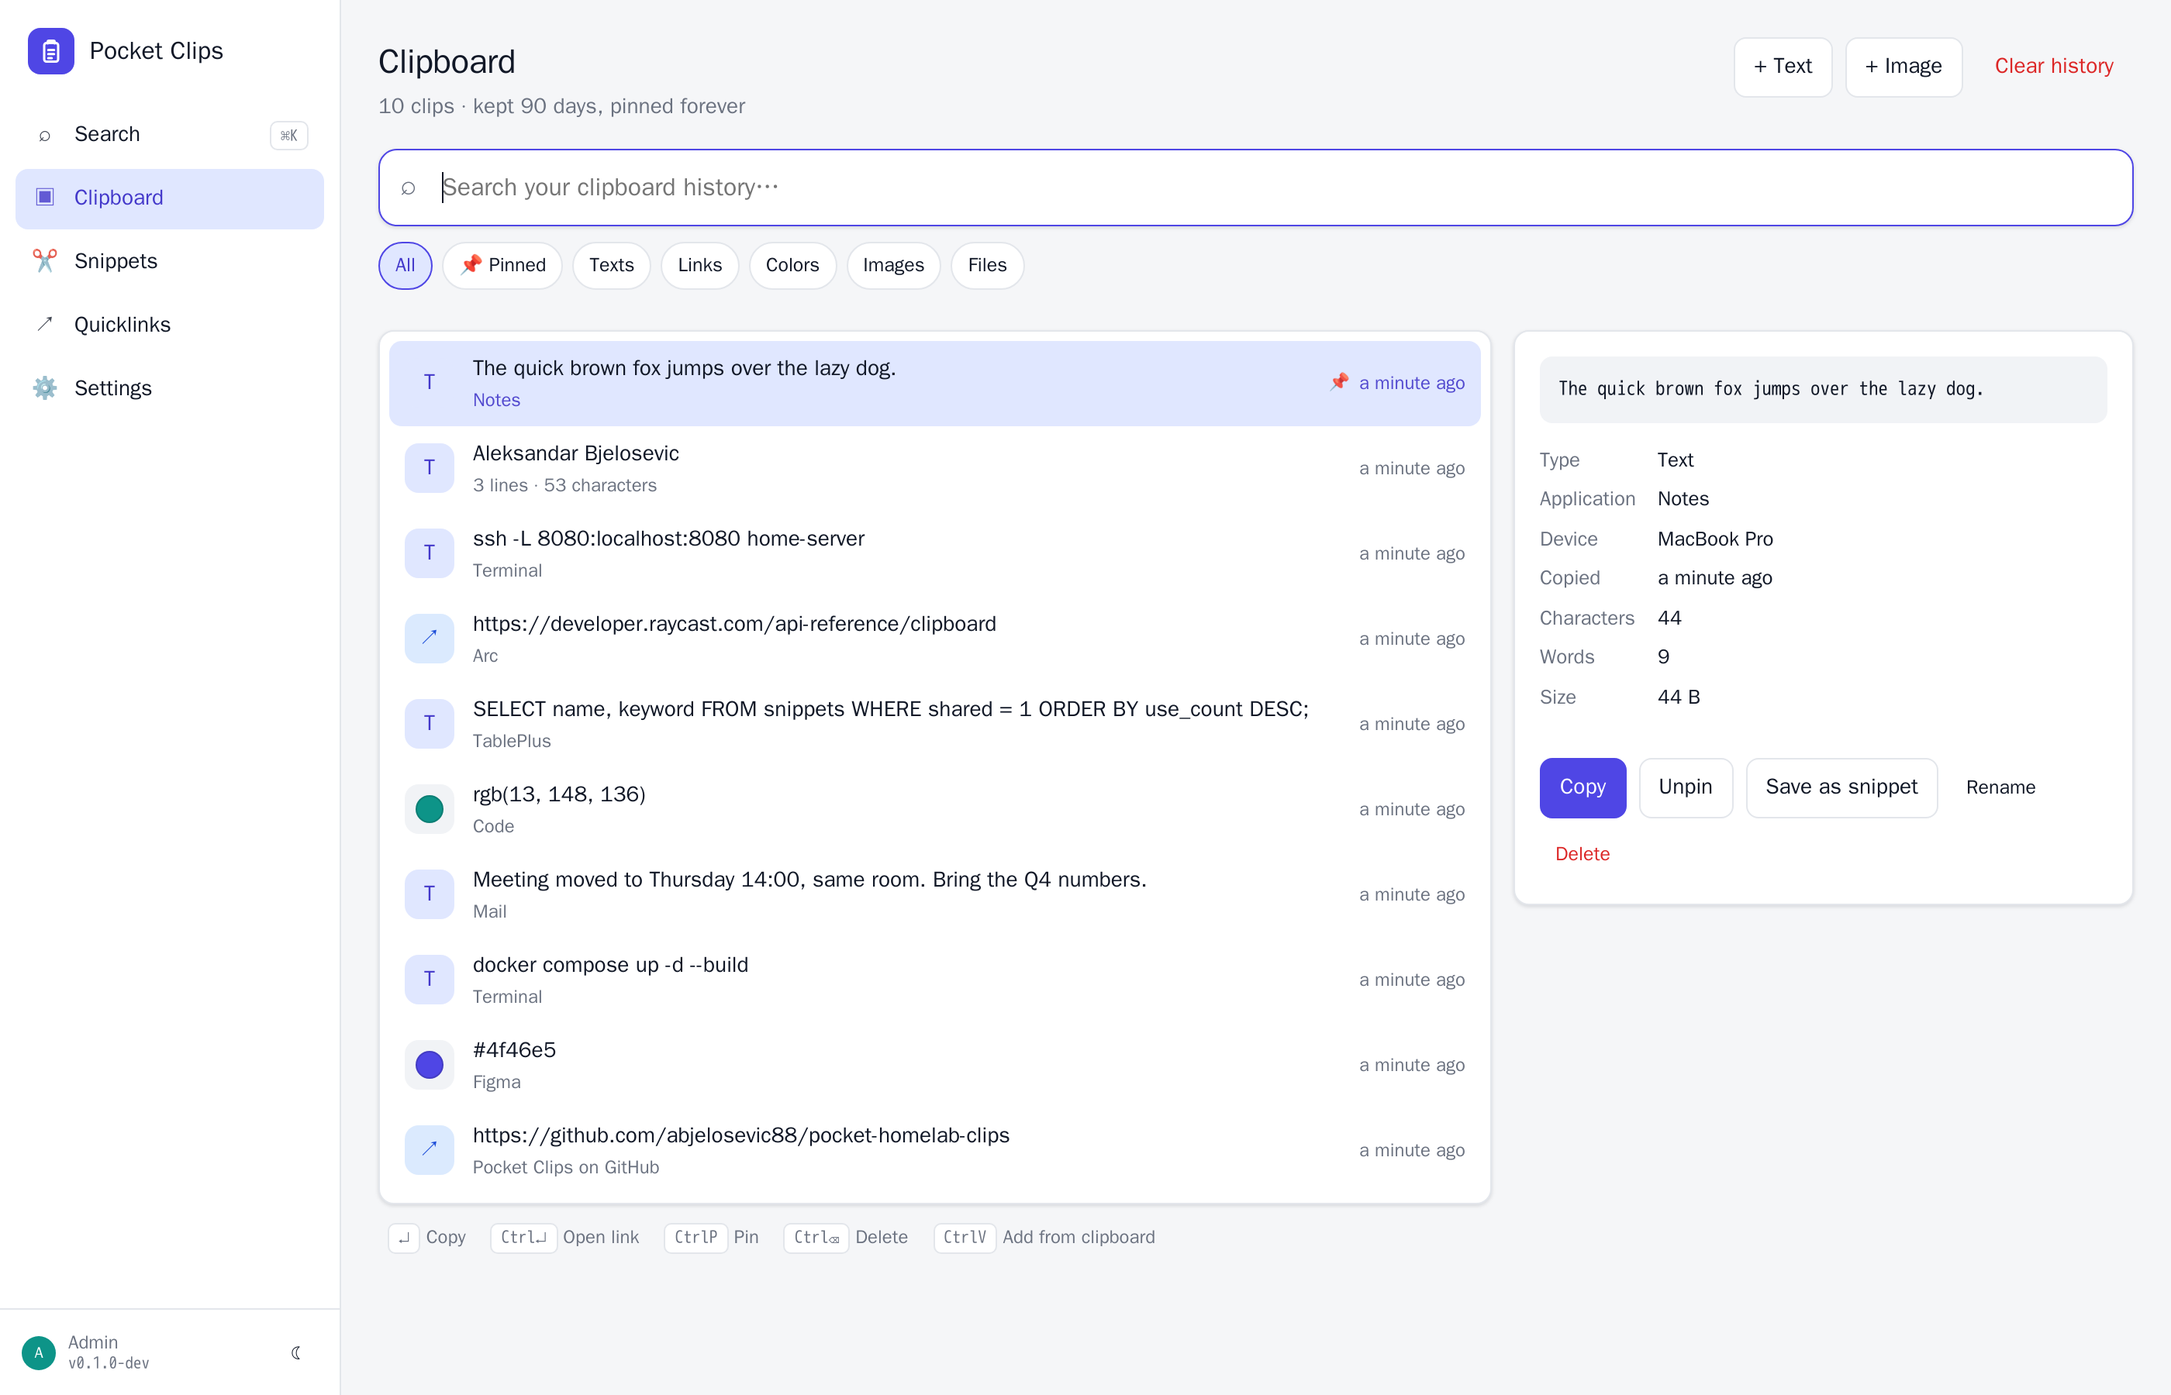
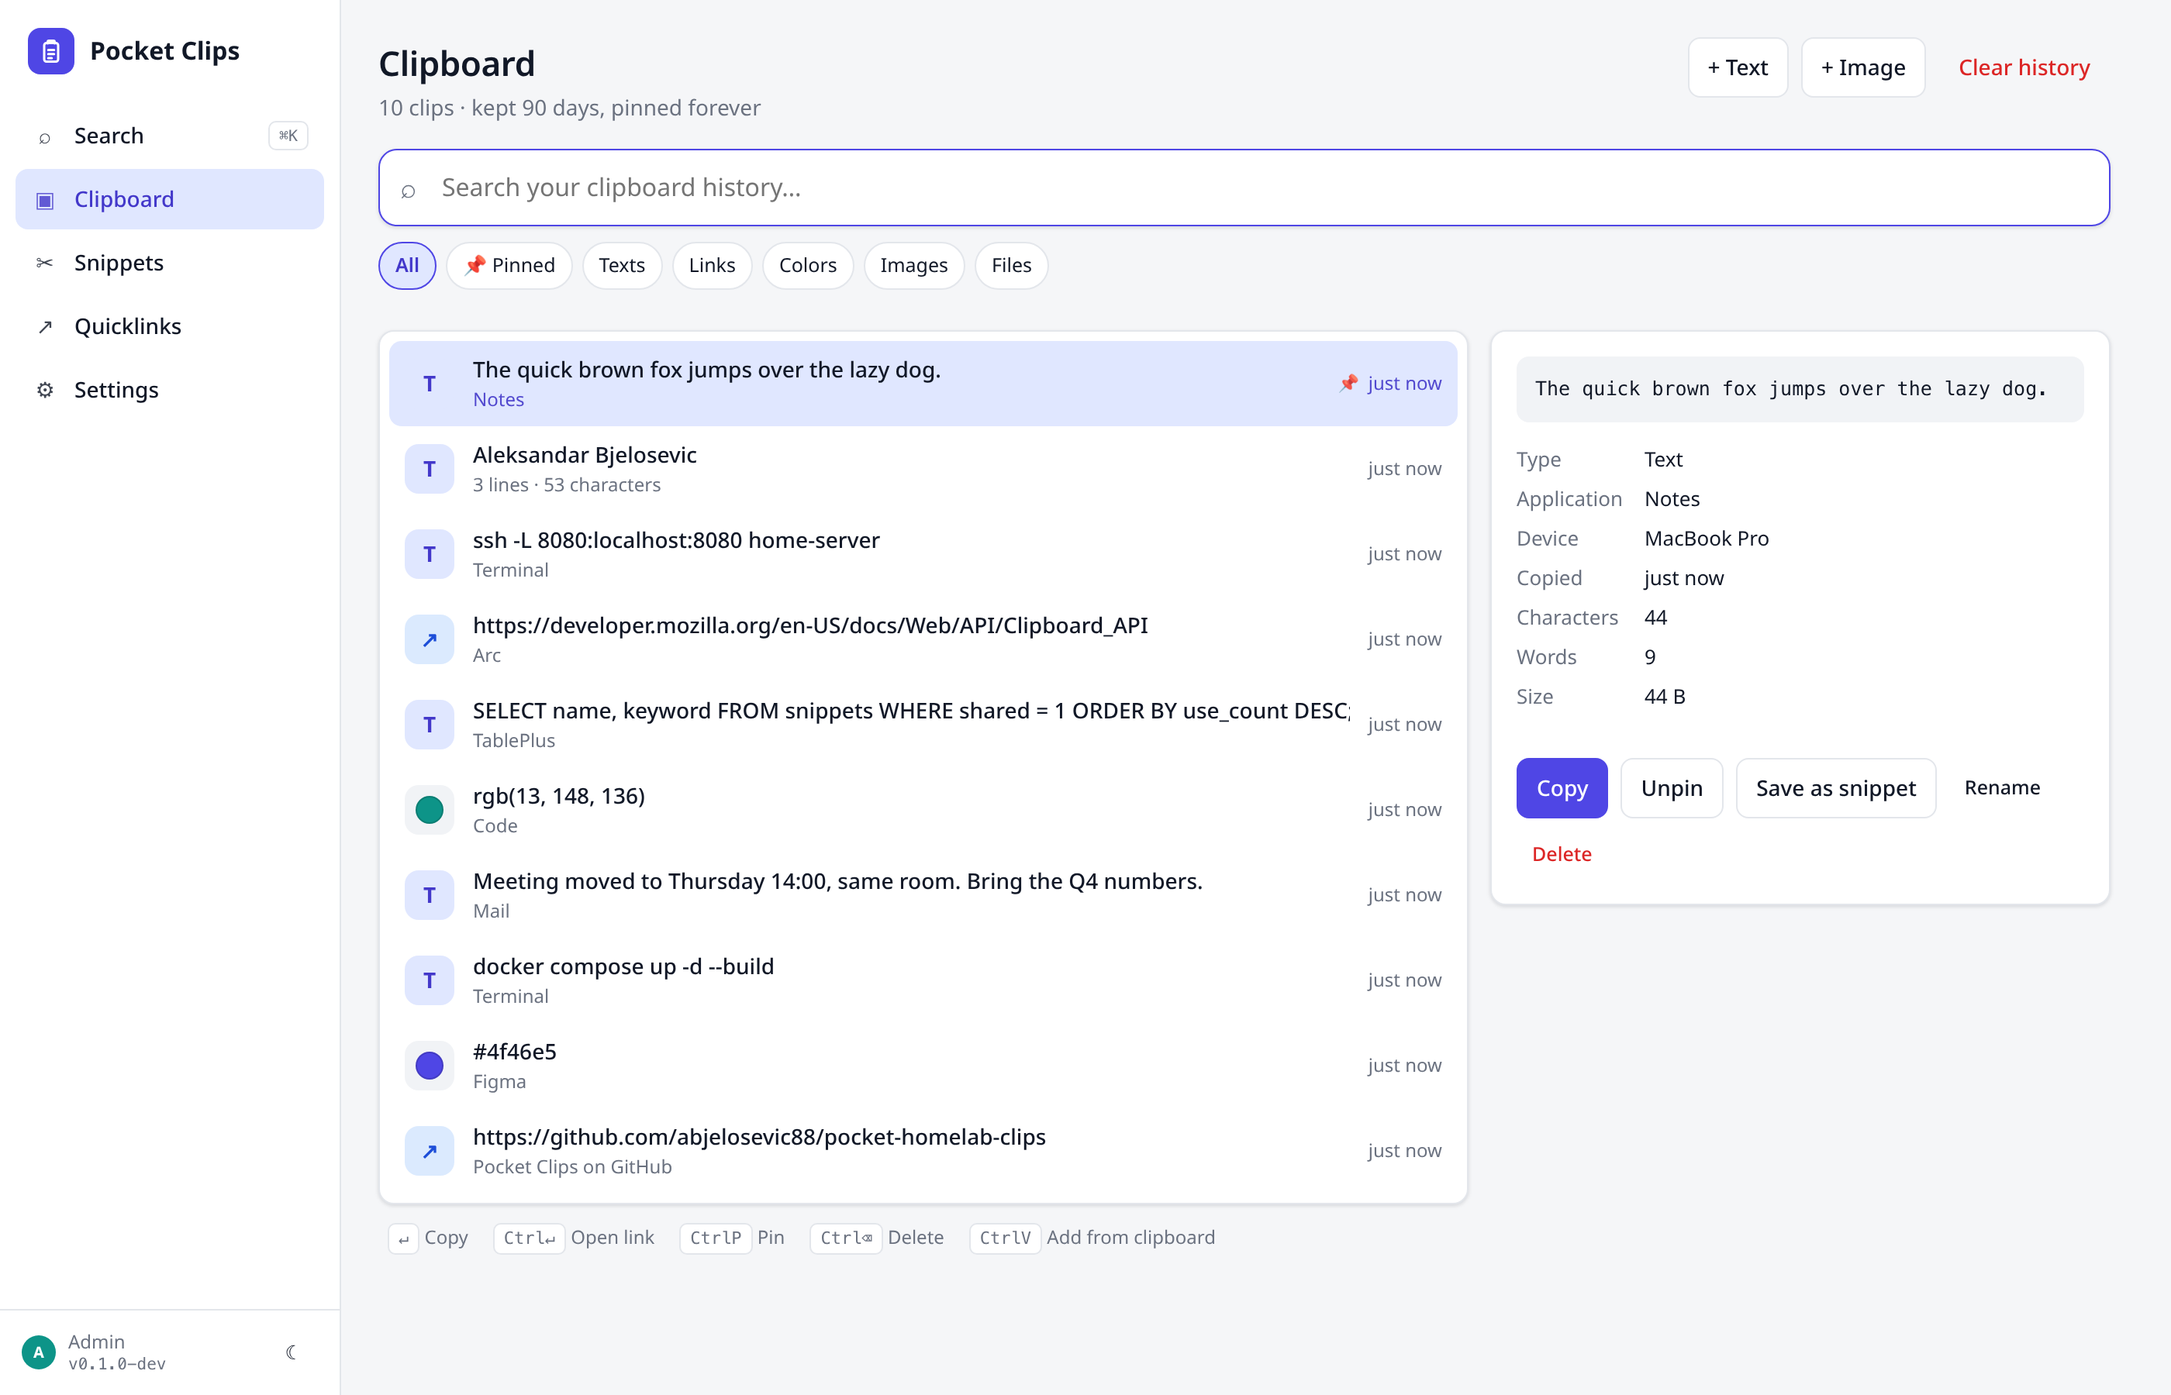
Stand-alone wording: no third-party app named in docs, UI, comments or demo data; bare-array export is now ?bare=1, the on-demand client script is replaced by a post-clip.sh hotkey tip, clipboard screenshot retaken

diff --git a/web/src/pages/Settings.tsx b/web/src/pages/Settings.tsx
@@ -103,13 +103,12 @@ curl -fsS "${base}/api/v1/snippets/expand?keyword=sig&arg.name=Ana" \\
 # JSON with cursor offset and missing arguments
 curl -fsS -X POST ${base}/api/v1/snippets/expand -H "Authorization: Bearer pc_…" \\
   -H "Content-Type: application/json" -d '{"keyword":"mtg","args":{"attendees":"Ana"}}'`}</pre>
-          <p className="muted small">Raycast users: Snippets → Export in Raycast produces JSON this app imports as is, and <b>Export</b> here produces the array Raycast's importer accepts.</p>
         </Card>
         <Card title="Quicklinks as a browser search engine">
           <p className="muted">Any quicklink with a <code>{'{Query}'}</code> gets a redirect URL. Add it in your browser's search-engine settings with <code>%s</code> as the query, give it the same keyword, and type <code>g pocket clips</code> in the address bar:</p>
           <pre>{`${base}/go/g?q=%s        # by keyword
 ${base}/go/12?q=%s       # by id`}</pre>
-          <p className="muted small">Works while you are signed in here (session cookie){status?.auth_mode === 'none' ? ' — or always, since login is off' : ''}. Raycast's Quicklinks → Export JSON imports directly too.</p>
+          <p className="muted small">Works while you are signed in here (session cookie){status?.auth_mode === 'none' ? ' — or always, since login is off' : ''}.</p>
         </Card>
       </div>
     </div>
@@ -237,7 +236,7 @@ function Data() {
         <a className="btn primary" href={`${V1}/backup`}>Download database</a>
       </Card>
       <Card title="Export & import">
-        <p className="muted">Your snippets and quicklinks as one JSON file (add your text clips with the second button). The same file, or a bare array exported by Raycast, imports here; items you already have are skipped.</p>
+        <p className="muted">Your snippets and quicklinks as one JSON file (add your text clips with the second button). The same file, or a bare array of snippets or quicklinks, imports here; items you already have are skipped.</p>
         <div className="row wrap">
           <a className="btn" href={`${V1}/export`}>Export library</a>
           <a className="btn" href={`${V1}/export?clips=1`}>Export library + clips</a>
@@ -253,7 +252,7 @@ function About() {
   const counts = (data?.counts || {}) as Record<string, number>
   return (
     <Card title="About">
-      <p><b>Pocket Clips</b> is the server side of a Raycast-style clipboard history, snippet library and quicklink launcher: everything you copy, searchable from any device, with snippets that expand placeholders and quicklinks that take a query. One binary, one SQLite file, one volume.</p>
+      <p><b>Pocket Clips</b> is a self-hosted clipboard history, snippet library and quicklink launcher: everything you copy, searchable from any device, with snippets that expand placeholders and quicklinks that take a query. One binary, one SQLite file, one volume.</p>
       <p className="muted small">Open source (MIT) — <a href="https://github.com/abjelosevic88/pocket-homelab-clips" target="_blank" rel="noreferrer">github.com/abjelosevic88/pocket-homelab-clips</a>. Sibling projects: Pocket Habits, Pocket Inventory, Pocket Bookshelf, Pocket Split, Pocket Subtitles and Pocket Invoicing. Favicons by DuckDuckGo.</p>
       {data && (
         <table className="table compact mt">

diff --git a/web/src/pages/Quicklinks.tsx b/web/src/pages/Quicklinks.tsx
@@ -87,7 +87,7 @@ export default function Quicklinks() {
       <PageHeader title="Quicklinks" sub={`${plural(total, 'quicklink')} · use {Query} or {argument name="x"} in the URL to be asked for input`} actions={<>
         <button className="btn" onClick={() => fileInput.current?.click()}>Import JSON</button>
         <input ref={fileInput} type="file" accept="application/json,.json" hidden onChange={e => e.target.files?.[0] && importFile(e.target.files[0])} />
-        <a className="btn" href={`${V1}/export?what=quicklinks&raycast=1`}>Export</a>
+        <a className="btn" href={`${V1}/export?what=quicklinks&bare=1`}>Export</a>
         <button className="btn primary" onClick={() => setEdit({})}>+ New quicklink</button>
       </>} />
       <div className="palette page">
@@ -99,7 +99,7 @@ export default function Quicklinks() {
         {folders.length > 0 && <div className="chips mb"><button className={`chip ${!folder ? 'active' : ''}`} onClick={() => set('folder', '')}>All</button>{folders.map(f => <button key={f} className={`chip ${folder === f ? 'active' : ''}`} onClick={() => set('folder', f)}>{f}</button>)}</div>}
         <div className={`pal-body ${cur ? 'has-detail' : ''}`}>
           <div className="pal-list" ref={list} role="listbox">
-            {items.length === 0 && <div className="empty"><h3>{q ? 'No matches' : 'No quicklinks yet'}</h3><p className="muted">{q ? '' : 'Create one, or import the JSON that Raycast exports (Quicklinks → Export).'}</p></div>}
+            {items.length === 0 && <div className="empty"><h3>{q ? 'No matches' : 'No quicklinks yet'}</h3><p className="muted">{q ? '' : 'Create one, or import a JSON array of quicklinks.'}</p></div>}
             {items.map((x, i) => <div key={x.id} data-i={i}><QuicklinkRow q={x} hl={i === hl} onClick={() => { setHl(i); if (narrow) setSheet(true) }} onDoubleClick={() => open(x)} /></div>)}
           </div>
           {!narrow && cur && <aside className="detail">{detail}</aside>}

diff --git a/web/src/pages/Snippets.tsx b/web/src/pages/Snippets.tsx
@@ -86,7 +86,7 @@ export default function Snippets() {
       <PageHeader title="Snippets" sub={`${plural(total, 'snippet')} · placeholders like {clipboard}, {date} and {argument name="x"} are filled in when you copy`} actions={<>
         <button className="btn" onClick={() => fileInput.current?.click()}>Import JSON</button>
         <input ref={fileInput} type="file" accept="application/json,.json" hidden onChange={e => e.target.files?.[0] && importFile(e.target.files[0])} />
-        <a className="btn" href={`${V1}/export?what=snippets&raycast=1`}>Export</a>
+        <a className="btn" href={`${V1}/export?what=snippets&bare=1`}>Export</a>
         <button className="btn primary" onClick={() => setEdit({})}>+ New snippet</button>
       </>} />
       <div className="palette page">
@@ -98,7 +98,7 @@ export default function Snippets() {
         {folders.length > 0 && <div className="chips mb"><button className={`chip ${!folder ? 'active' : ''}`} onClick={() => set('folder', '')}>All</button>{folders.map(f => <button key={f} className={`chip ${folder === f ? 'active' : ''}`} onClick={() => set('folder', f)}>{f}</button>)}</div>}
         <div className={`pal-body ${cur ? 'has-detail' : ''}`}>
           <div className="pal-list" ref={list} role="listbox">
-            {items.length === 0 && <div className="empty"><h3>{q ? 'No matches' : 'No snippets yet'}</h3><p className="muted">{q ? '' : 'Create one, or import the JSON that Raycast exports (Snippets → Export).'}</p></div>}
+            {items.length === 0 && <div className="empty"><h3>{q ? 'No matches' : 'No snippets yet'}</h3><p className="muted">{q ? '' : 'Create one, or import a JSON array of snippets.'}</p></div>}
             {items.map((s, i) => <div key={s.id} data-i={i}><SnippetRow s={s} hl={i === hl} onClick={() => { setHl(i); if (narrow) setSheet(true) }} onDoubleClick={() => use(s)} /></div>)}
           </div>
           {!narrow && cur && <aside className="detail">{detail}</aside>}

diff --git a/web/src/components/items.tsx b/web/src/components/items.tsx
@@ -76,7 +76,7 @@ export function QuicklinkRow({ q, hl, active, onClick, onDoubleClick }: { q: Qui
   )
 }
 
-/** Raycast-style metadata list in the detail pane. */
+/** Metadata list in the detail pane. */
 export function Meta({ rows }: { rows: [string, React.ReactNode][] }) {
   return <dl className="meta">{rows.filter(r => r[1] !== '' && r[1] !== null && r[1] !== undefined && r[1] !== 0).map(([k, v]) => <div key={k}><dt>{k}</dt><dd>{v}</dd></div>)}</dl>
 }
@@ -174,7 +174,7 @@ export function ArgsModal({ title, args, onSubmit, onClose }: { title: string; a
   )
 }
 
-/** The footer bar with keyboard hints, like Raycast's action bar. */
+/** The footer bar with keyboard hints. */
 export function Hints({ items }: { items: [string, string][] }) {
   return <div className="hints">{items.map(([k, l]) => <span key={l}><span className="kbd">{k.replace('⌘', mod)}</span> {l}</span>)}</div>
 }

diff --git a/web/src/components/PlaceholderEditor.tsx b/web/src/components/PlaceholderEditor.tsx
@@ -46,8 +46,8 @@ interface Props {
   inputRef?: React.RefObject<HTMLTextAreaElement | HTMLInputElement | null>
 }
 
-/** A textarea or input that pops up placeholder completions when you type "{",
- *  the way Raycast's snippet editor does. ↑↓ move, ↵ or Tab insert, Esc closes. */
+/** A textarea or input that pops up placeholder completions when you type "{".
+ *  ↑↓ move, ↵ or Tab insert, Esc closes. */
 export function PlaceholderEditor({ value, onChange, completions, snippetNames = [], multiline = true, className = '', placeholder, rows = 8, required, autoFocus, spellCheck = false, inputRef }: Props) {
   const own = useRef<HTMLTextAreaElement | HTMLInputElement | null>(null)
   const ref = (inputRef || own) as React.RefObject<HTMLTextAreaElement | HTMLInputElement | null>

diff --git a/internal/server/importexport.go b/internal/server/importexport.go
@@ -10,8 +10,8 @@ import (
 )
 
 // Export is the portable JSON shape of a user's library. Snippets and
-// quicklinks use Raycast's field names (name/text/keyword, name/link/openWith)
-// so the arrays can be fed straight into Raycast's importers, and vice versa.
+// quicklinks use the common launcher field names (name/text/keyword,
+// name/link/openWith) so the arrays can be fed into other tools, and vice versa.
 type Export struct {
 	App        string            `json:"app"`
 	Version    string            `json:"version"`
@@ -42,8 +42,8 @@ type exportQuicklink struct {
 }
 
 // handleExport: GET /export?what=snippets|quicklinks|all (default all, clips
-// included only with ?clips=1). ?raycast=1 returns the bare array Raycast's
-// "Import Snippets" / "Import Quicklinks" dialogs expect.
+// included only with ?clips=1). ?bare=1 returns just the snippets or
+// quicklinks array instead of the wrapped export.
 func (s *Server) handleExport(w http.ResponseWriter, r *http.Request) {
 	u := userFrom(r.Context())
 	what := r.URL.Query().Get("what")
@@ -77,18 +77,18 @@ func (s *Server) handleExport(w http.ResponseWriter, r *http.Request) {
 		ex.Clips = list
 	}
 	name := "pocket-clips-" + time.Now().Format("20060102") + ".json"
-	if queryBool(r, "raycast") {
+	if queryBool(r, "bare") {
 		switch what {
 		case "snippets":
-			name = "raycast-snippets.json"
+			name = "pocket-clips-snippets.json"
 			w.Header().Set("Content-Disposition", `attachment; filename="`+name+`"`)
 			writeJSON(w, http.StatusOK, ex.Snippets)
 		case "quicklinks":
-			name = "raycast-quicklinks.json"
+			name = "pocket-clips-quicklinks.json"
 			w.Header().Set("Content-Disposition", `attachment; filename="`+name+`"`)
 			writeJSON(w, http.StatusOK, ex.Quicklinks)
 		default:
-			writeErr(w, http.StatusBadRequest, "raycast=1 needs what=snippets or what=quicklinks")
+			writeErr(w, http.StatusBadRequest, "bare=1 needs what=snippets or what=quicklinks")
 		}
 		return
 	}
@@ -96,7 +96,7 @@ func (s *Server) handleExport(w http.ResponseWriter, r *http.Request) {
 	writeJSON(w, http.StatusOK, ex)
 }
 
-// handleImport accepts our own export, or a bare array from Raycast: snippets
+// handleImport accepts our own export, or a bare array: snippets
 // ([{name,text,keyword}]) and quicklinks ([{name,link,openWith}]) are told
 // apart by their fields. Existing identical items are skipped.
 func (s *Server) handleImport(w http.ResponseWriter, r *http.Request) {

diff --git a/internal/snippet/expand.go b/internal/snippet/expand.go
@@ -1,11 +1,11 @@
-// Package snippet expands dynamic placeholders the way Raycast snippets do:
+// Package snippet expands dynamic placeholders in snippets and quicklinks:
 //
 //	{clipboard} {selection} {cursor} {uuid}
 //	{date} {time} {datetime} {day}            with optional format="…" offset="+1d"
 //	{argument name="x" default="y"}
 //	{snippet name="Other snippet"}
 //
-// Formats use the Unicode / Raycast letters (yyyy-MM-dd HH:mm), not Go's.
+// Formats use the Unicode letters (yyyy-MM-dd HH:mm), not Go's.
 package snippet
 
 import (
@@ -98,7 +98,7 @@ func expand(tpl string, in Input, res *Result, seen map[string]bool, depth int) 
 				res.Missing = append(res.Missing, n)
 			}
 			return ""
-		case "query": // Raycast's classic quicklink placeholder
+		case "query": // the classic quicklink placeholder
 			if v, ok := in.Args["query"]; ok {
 				return v
 			}

diff --git a/internal/server/demo.go b/internal/server/demo.go
@@ -24,7 +24,7 @@ func (s *Server) seedDemo(ctx context.Context) error {
 		{Content: "Meeting moved to Thursday 14:00, same room. Bring the Q4 numbers.", SourceApp: "Mail"},
 		{Content: "rgb(13, 148, 136)", SourceApp: "Code"},
 		{Content: "SELECT name, keyword FROM snippets WHERE shared = 1 ORDER BY use_count DESC;", SourceApp: "TablePlus"},
-		{Content: "https://developer.raycast.com/api-reference/clipboard", SourceApp: "Arc"},
+		{Content: "https://developer.mozilla.org/en-US/docs/Web/API/Clipboard_API", SourceApp: "Arc"},
 		{Content: "The quick brown fox jumps over the lazy dog.", SourceApp: "Notes", Pinned: true},
 		{Content: "ssh -L 8080:localhost:8080 home-server", SourceApp: "Terminal"},
 		{Content: "Aleksandar Bjelosevic\nSenior Engineer\n+387 65 000 000", SourceApp: "Contacts"},

diff --git a/internal/server/library.go b/internal/server/library.go
@@ -34,7 +34,7 @@ type snippetIn struct {
 	Name    string `json:"name"`
 	Keyword string `json:"keyword"`
 	Content string `json:"content"`
-	Text    string `json:"text"` // Raycast's field name, accepted as an alias
+	Text    string `json:"text"` // accepted as an alias of content
 	Folder  string `json:"folder"`
 	Shared  *bool  `json:"shared"`
 	Pinned  *bool  `json:"pinned"`
@@ -269,7 +269,7 @@ type quicklinkIn struct {
 	Link      string `json:"link"`
 	Icon      string `json:"icon"`
 	OpenWith  string `json:"open_with"`
-	OpenWith2 string `json:"openWith"` // Raycast's export field
+	OpenWith2 string `json:"openWith"` // camelCase alias of open_with
 	Folder    string `json:"folder"`
 	Shared    *bool  `json:"shared"`
 	Pinned    *bool  `json:"pinned"`

diff --git a/internal/store/arguments.go b/internal/store/arguments.go
@@ -7,7 +7,7 @@ var attrRe = regexp.MustCompile(`(\w+)\s*=\s*"([^"]*)"`)
 var queryRe = regexp.MustCompile(`(?i)\{query\}`)
 
 // ParseArguments lists the {argument name="…" default="…"} placeholders of a
-// template (and {Query}, Raycast's classic quicklink placeholder, as "query"),
+// template (and {Query}, the classic quicklink placeholder, as "query"),
 // each name once, in order of first appearance.
 func ParseArguments(tpl string) []Argument {
 	out := []Argument{}

diff --git a/cmd/pocket-clips/main.go b/cmd/pocket-clips/main.go
@@ -1,6 +1,5 @@
 // Command pocket-clips is a self-hosted clipboard history, snippet library and
-// quicklink launcher, the server side of what Raycast keeps on one Mac. One
-// binary, one SQLite file, one volume.
+// quicklink launcher. One binary, one SQLite file, one volume.
 package main
 
 import (

diff --git a/internal/clipkind/clipkind.go b/internal/clipkind/clipkind.go
@@ -1,5 +1,5 @@
 // Package clipkind classifies clipboard content (text, link, color) and
-// measures it, the way Raycast's clipboard history shows a type per entry.
+// measures it, so the clipboard history can show a type per entry.
 package clipkind
 
 import (
